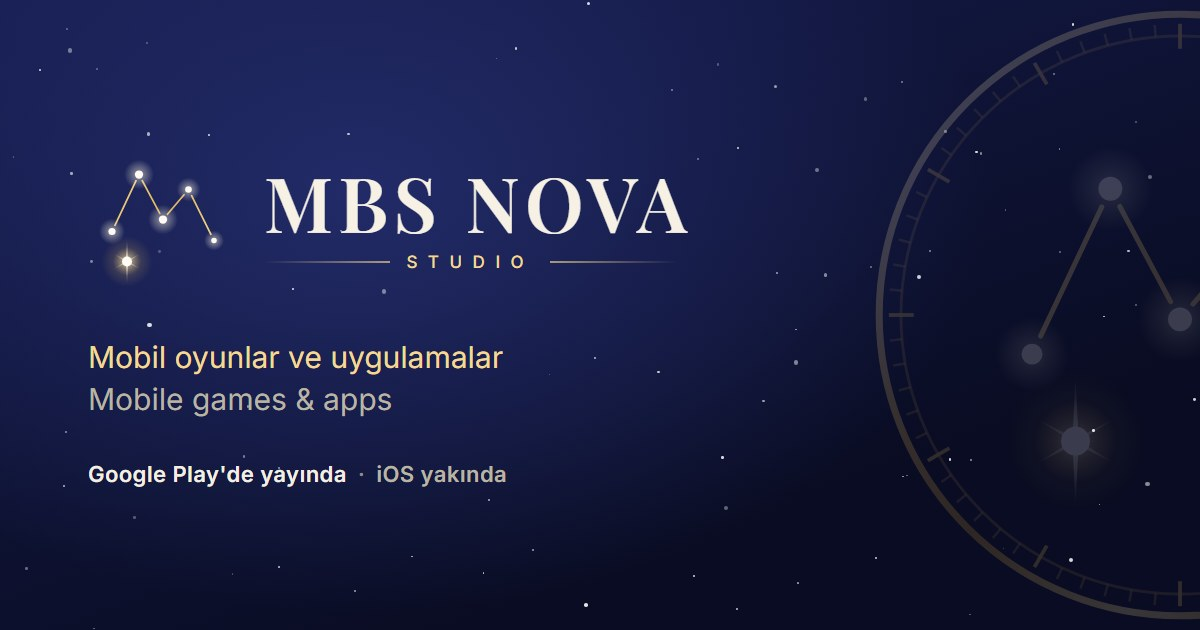
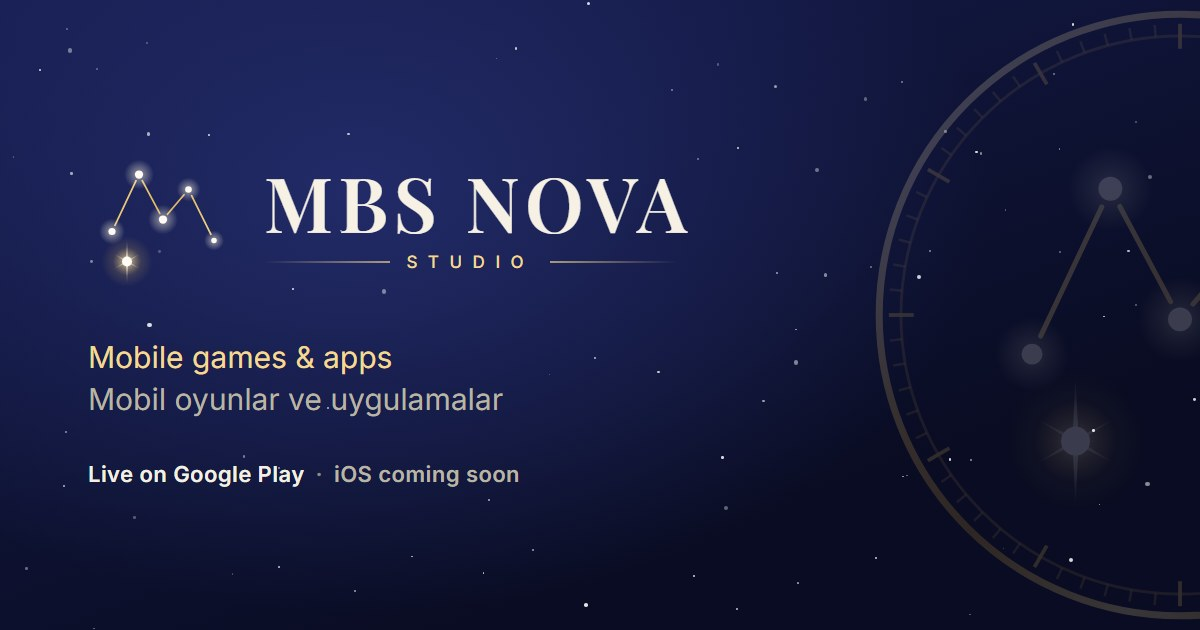
Make English the default language outside Turkish browsers
- Static default is now English (html lang, title, og tags) on the studio, Jewelia and 404 pages;
  Turkish browsers still switch to Turkish before render
- English-first meta descriptions, og:locale en_US with tr_TR alternate
- Share image leads with English

Changed region(s): [[0.1233, 0.5429, 0.4317, 0.6635], [0.0617, 0.7238, 0.4317, 0.7841]]

diff --git a/index.html b/index.html
@@ -1,13 +1,13 @@
 <!doctype html>
-<html lang="tr" data-lang="tr"
+<html lang="en" data-lang="en"
   data-title-tr="MBS Nova Studio — Mobil oyunlar ve uygulamalar"
   data-title-en="MBS Nova Studio — Mobile games and apps">
 <head>
 <meta charset="utf-8">
 <meta name="viewport" content="width=device-width, initial-scale=1">
-<title>MBS Nova Studio — Mobil oyunlar ve uygulamalar</title>
+<title>MBS Nova Studio — Mobile games and apps</title>
 <script>(function(d){var l;try{l=localStorage.getItem('lang')}catch(e){}if(l!=='tr'&&l!=='en')l=/^tr\b/i.test(navigator.language||'')?'tr':'en';d.setAttribute('data-lang',l);d.lang=l;d.className+=' js';var t=d.getAttribute('data-title-'+l);if(t)document.title=t})(document.documentElement)</script>
-<meta name="description" content="MBS Nova Studio, özenle tasarlanmış mobil oyunlar ve uygulamalar geliştirir: Jewelia mücevher eşleştirme bulmacası ve MBS Kasa bütçe, altın ve döviz takibi. Independent studio making mobile games and apps.">
+<meta name="description" content="MBS Nova Studio is an independent studio making thoughtfully crafted mobile games and apps, like the Jewelia match-3 puzzle, with new ones on the way. Mobil oyunlar ve uygulamalar.">
 <link rel="canonical" href="https://mbsnovastudio.com/">
 <meta name="theme-color" content="#0b1029">
 <link rel="icon" href="/favicon.svg" type="image/svg+xml">
@@ -19,13 +19,13 @@
 <meta property="og:type" content="website">
 <meta property="og:site_name" content="MBS Nova Studio">
 <meta property="og:url" content="https://mbsnovastudio.com/">
-<meta property="og:title" content="MBS Nova Studio — Mobil oyunlar ve uygulamalar">
-<meta property="og:description" content="Özenle tasarlanmış mobil oyunlar ve uygulamalar; yenileri yolda. Google Play'de yayında, iOS yakında.">
+<meta property="og:title" content="MBS Nova Studio — Mobile games and apps">
+<meta property="og:description" content="Thoughtfully crafted mobile games and apps, with new ones on the way. Live on Google Play, iOS coming soon.">
 <meta property="og:image" content="https://mbsnovastudio.com/assets/img/og-studio.jpg">
 <meta property="og:image:width" content="1200">
 <meta property="og:image:height" content="630">
-<meta property="og:locale" content="tr_TR">
-<meta property="og:locale:alternate" content="en_US">
+<meta property="og:locale" content="en_US">
+<meta property="og:locale:alternate" content="tr_TR">
 <meta name="twitter:card" content="summary_large_image">
 <script type="application/ld+json">
 {

diff --git a/jewelia/index.html b/jewelia/index.html
@@ -1,13 +1,13 @@
 <!doctype html>
-<html lang="tr" data-lang="tr"
+<html lang="en" data-lang="en"
   data-title-tr="Jewelia: Mücevher Eşleştirme Bulmacası — MBS Nova Studio"
   data-title-en="Jewelia: Jewel Match Puzzle — MBS Nova Studio">
 <head>
 <meta charset="utf-8">
 <meta name="viewport" content="width=device-width, initial-scale=1">
-<title>Jewelia: Mücevher Eşleştirme Bulmacası — MBS Nova Studio</title>
+<title>Jewelia: Jewel Match Puzzle — MBS Nova Studio</title>
 <script>(function(d){var l;try{l=localStorage.getItem('lang')}catch(e){}if(l!=='tr'&&l!=='en')l=/^tr\b/i.test(navigator.language||'')?'tr':'en';d.setAttribute('data-lang',l);d.lang=l;d.className+=' js';var t=d.getAttribute('data-title-'+l);if(t)document.title=t})(document.documentElement)</script>
-<meta name="description" content="Jewelia, elle ayarlanmış seviyeleriyle kraliyet temalı, ücretsiz bir 3'lü eşleştirme bulmacası. İnternetsiz oynanır. Jewelia is a free royal match-3 puzzle with hand-tuned levels that plays offline.">
+<meta name="description" content="Jewelia is a free royal match-3 puzzle with hand-tuned levels that plays offline. Jewelia, elle ayarlanmış seviyeleriyle ücretsiz, kraliyet temalı bir 3'lü eşleştirme bulmacası.">
 <link rel="canonical" href="https://mbsnovastudio.com/jewelia/">
 <meta name="theme-color" content="#0b1029">
 <link rel="icon" href="/favicon.svg" type="image/svg+xml">
@@ -20,8 +20,10 @@
 <meta property="og:type" content="website">
 <meta property="og:site_name" content="MBS Nova Studio">
 <meta property="og:url" content="https://mbsnovastudio.com/jewelia/">
-<meta property="og:title" content="Jewelia: Mücevher Eşleştirme Bulmacası">
-<meta property="og:description" content="Kraliyet mücevherlerini eşleştir, anahtarları kurtar, sarayın sırlarını keşfet. Google Play'de ücretsiz.">
+<meta property="og:title" content="Jewelia: Jewel Match Puzzle">
+<meta property="og:description" content="Match royal jewels, rescue the keys and uncover the palace's secrets. Free on Google Play.">
+<meta property="og:locale" content="en_US">
+<meta property="og:locale:alternate" content="tr_TR">
 <meta property="og:image" content="https://mbsnovastudio.com/assets/img/jewelia-feature.jpg">
 <meta property="og:image:width" content="1024">
 <meta property="og:image:height" content="500">

diff --git a/404.html b/404.html
@@ -1,11 +1,11 @@
 <!doctype html>
-<html lang="tr" data-lang="tr"
+<html lang="en" data-lang="en"
   data-title-tr="Sayfa bulunamadı — MBS Nova Studio"
   data-title-en="Page not found — MBS Nova Studio">
 <head>
 <meta charset="utf-8">
 <meta name="viewport" content="width=device-width, initial-scale=1">
-<title>Sayfa bulunamadı — MBS Nova Studio</title>
+<title>Page not found — MBS Nova Studio</title>
 <script>(function(d){var l;try{l=localStorage.getItem('lang')}catch(e){}if(l!=='tr'&&l!=='en')l=/^tr\b/i.test(navigator.language||'')?'tr':'en';d.setAttribute('data-lang',l);d.lang=l;d.className+=' js';var t=d.getAttribute('data-title-'+l);if(t)document.title=t})(document.documentElement)</script>
 <meta name="robots" content="noindex">
 <meta name="theme-color" content="#0b1029">
